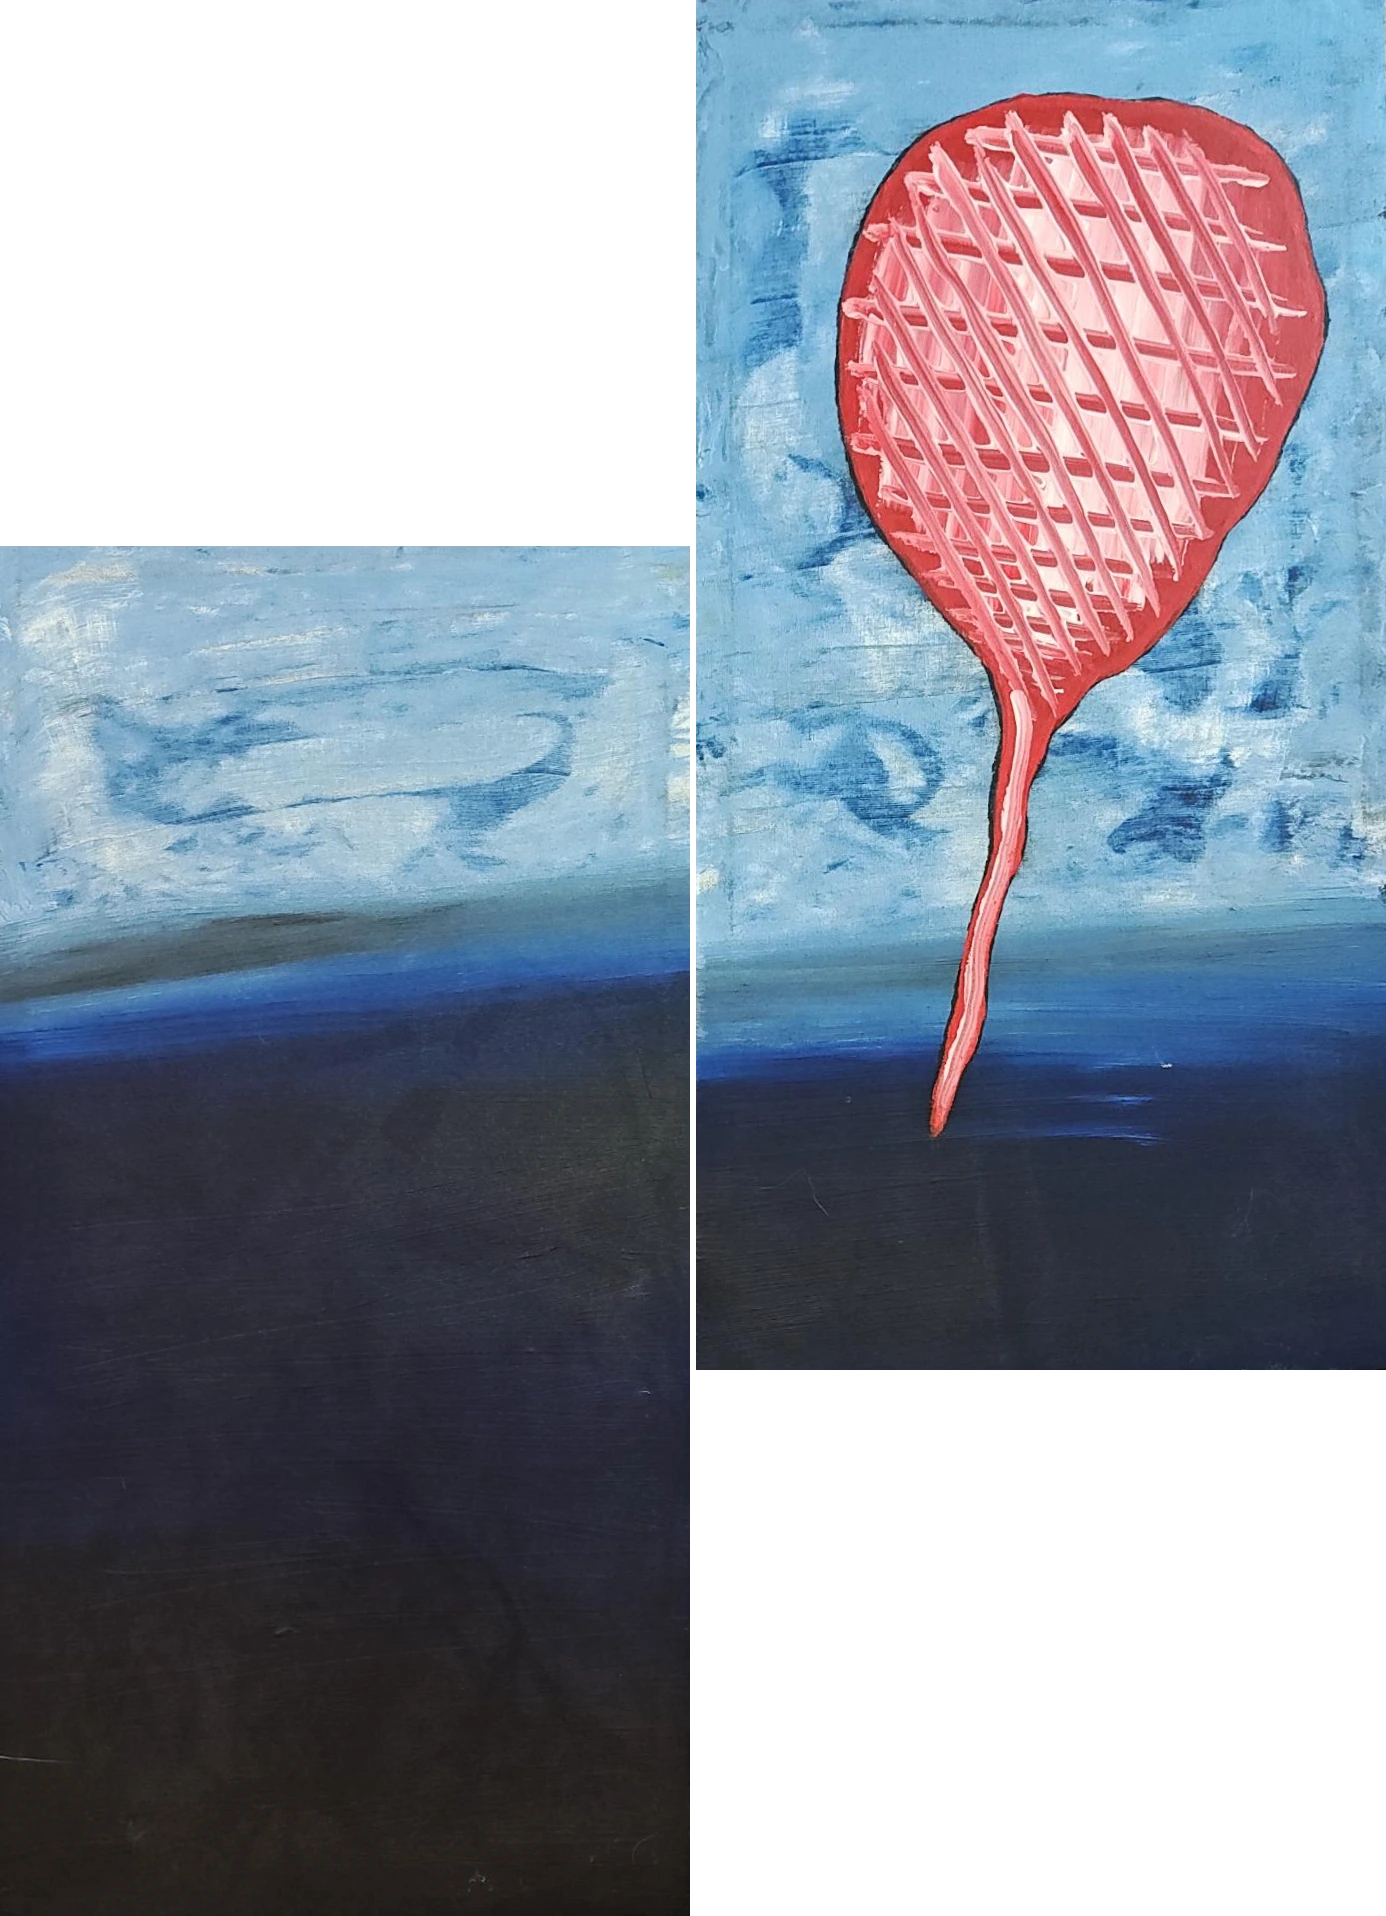
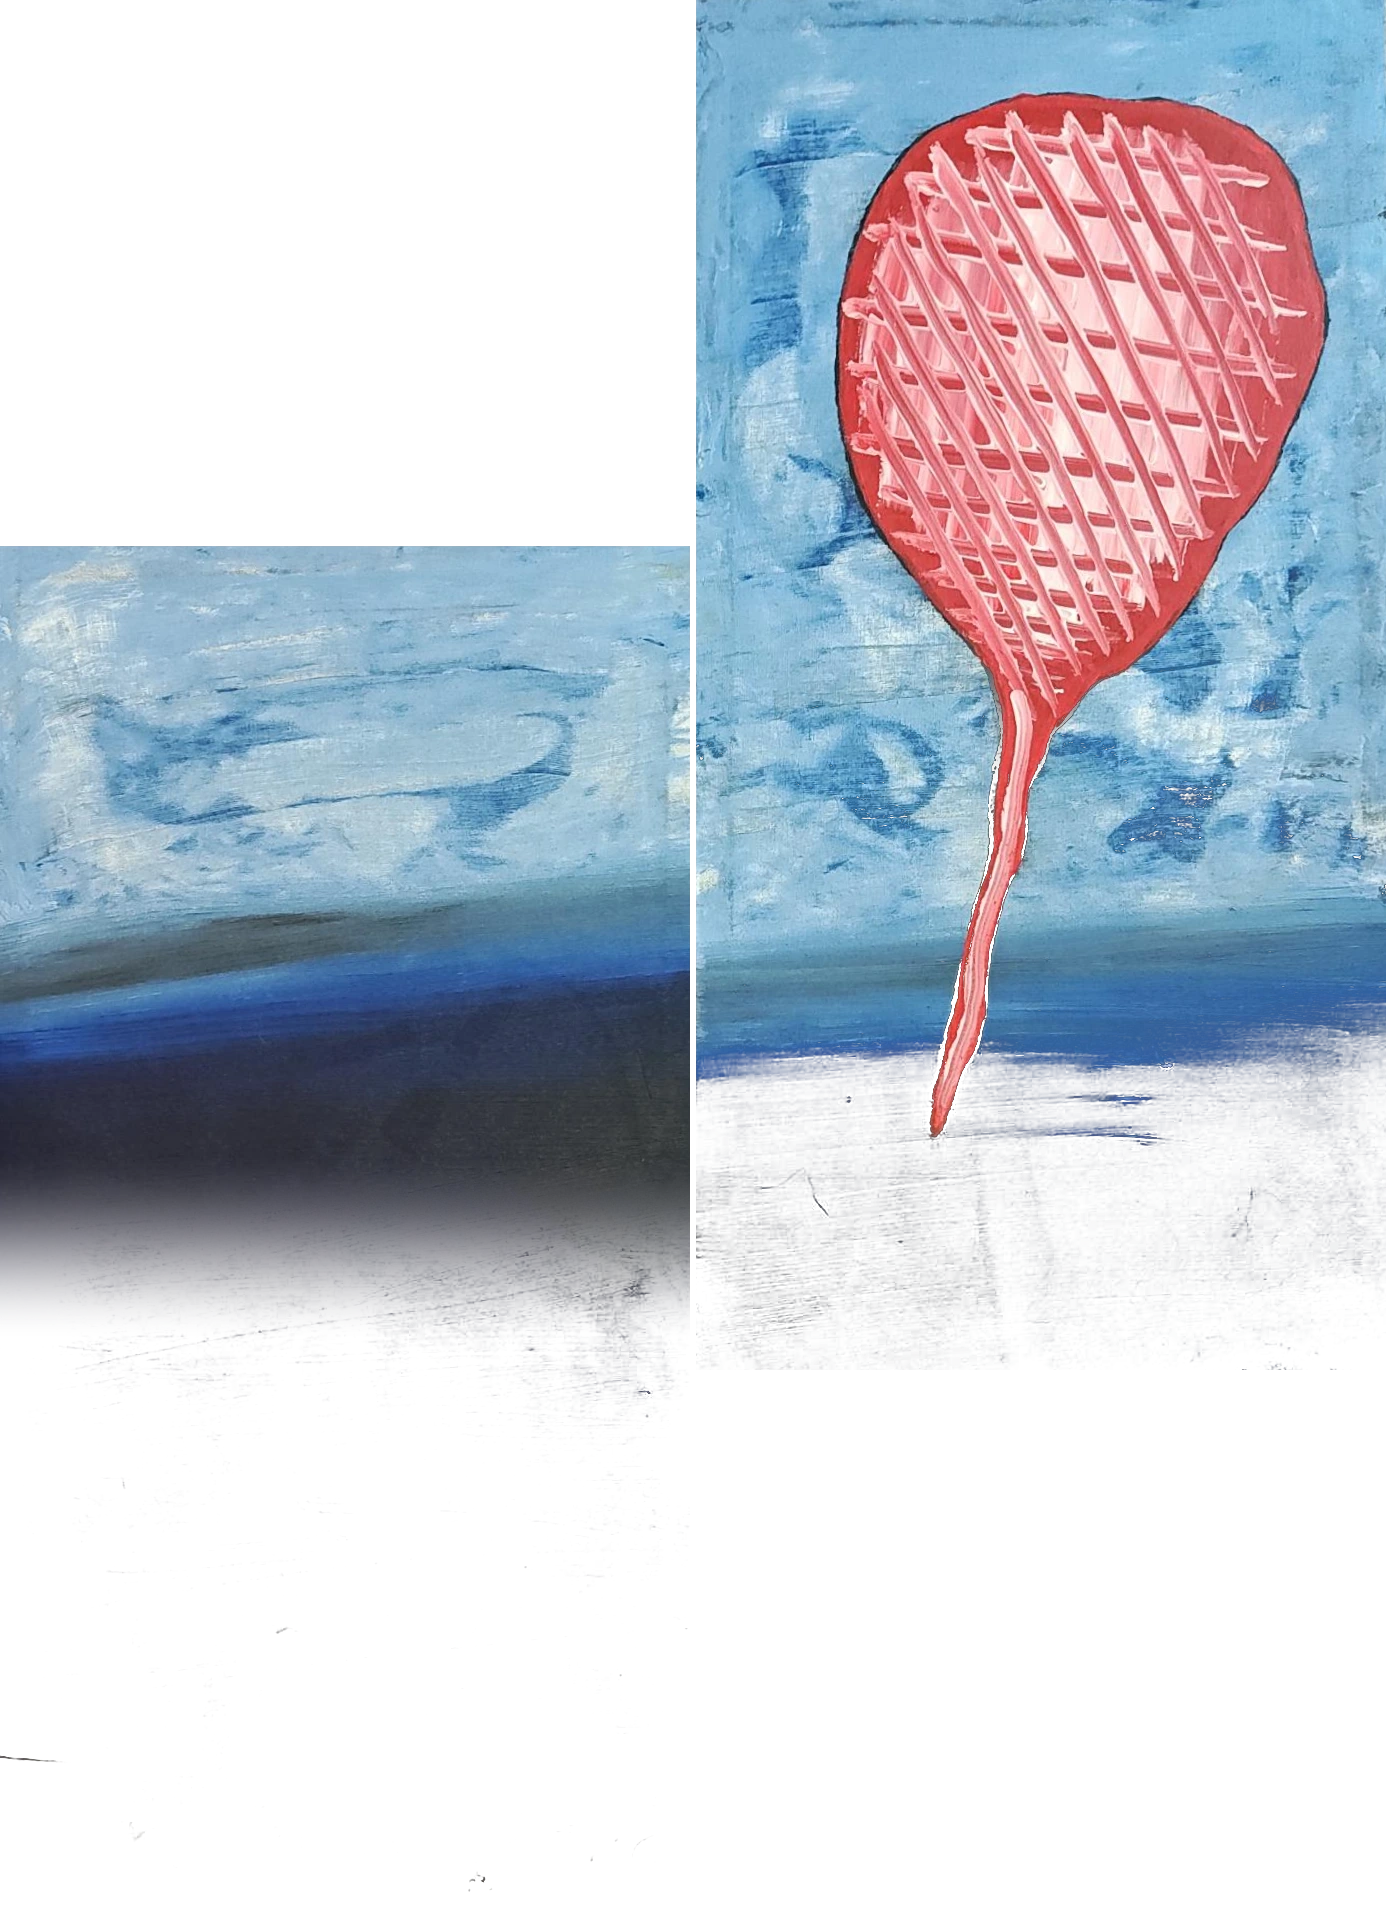
Reframe Errands as a shaped, transparent diptych
Errands carries an alpha channel — the paint is a two-panel diptych (a
taller right panel and a lower-set left panel) with transparent areas
around it. Update the uploaded file and hang it so it reads correctly:

- Canvas material is transparent for flagged works, so the gallery wall
  shows through the cut-out areas instead of rendering black.
- Frame now traces the artwork's opaque silhouette via a per-work
  outline, hugging the paint rather than the transparent image rectangle.
  The backing board is dropped for shaped works so the wall reads through.
- Standard rectangular works are unchanged.

Claude-Session: https://claude.ai/code/session_01JxDPRrPG6mmuitXx2TRgKa

diff --git a/js/art/Artworks.js b/js/art/Artworks.js
@@ -28,16 +28,33 @@ export function buildArtworks(scene, mats, manager) {
     const n = new THREE.Vector3(...slot.n);
     const yaw = Math.atan2(n.x, n.z); // rotate +Z face onto the normal
 
+    // Shaped works carry an alpha channel; `outline` is the opaque silhouette as
+    // fractions of the source image. bb is its bounding box — the plane samples
+    // only that region so the art centres in the slot, and the frame follows the
+    // outline rather than the transparent image rectangle.
+    const shaped = !!art.outline;
+    const bb = shaped ? bboxOf(art.outline) : [0, 0, 1, 1];
+
     // --- canvas ---
-    const canvasMat = new THREE.MeshStandardMaterial({ roughness: 0.82 });
+    const canvasMat = new THREE.MeshStandardMaterial({
+      roughness: 0.82,
+      transparent: !!art.transparent,   // let the wall show through cut-out areas
+      alphaTest: art.transparent ? 0.06 : 0,
+    });
     if (art.image) {
       canvasMat.map = texLoader.load(
         art.image,
         (t) => {
           t.colorSpace = THREE.SRGBColorSpace;
           t.anisotropy = 8;
-          // keep manifest width, adapt height to the photo's aspect
-          const aspect = t.image.width / t.image.height;
+          if (shaped) {
+            // crop the sampled region to the opaque bounding box
+            t.offset.set(bb[0], 1 - bb[3]);
+            t.repeat.set(bb[2] - bb[0], bb[3] - bb[1]);
+            t.needsUpdate = true;
+          }
+          // keep manifest width, adapt height to the sampled region's aspect
+          const aspect = (t.image.width * (bb[2] - bb[0])) / (t.image.height * (bb[3] - bb[1]));
           canvasMesh.scale.y = (w / aspect) / h;
         },
         undefined,
@@ -56,17 +73,22 @@ export function buildArtworks(scene, mats, manager) {
     group.add(canvasMesh);
     interactables.push(canvasMesh);
 
-    // --- frame: four mitred-ish bars + backing board ---
+    // --- frame ---
     const bar = 0.075, depth = 0.07;
-    const fw = w + bar * 2, fh = h + bar * 2;
-    addBar(frameGeos, fw, bar, depth, pos, n, yaw, 0, h / 2 + bar / 2);
-    addBar(frameGeos, fw, bar, depth, pos, n, yaw, 0, -(h / 2 + bar / 2));
-    addBar(frameGeos, bar, h, depth, pos, n, yaw, w / 2 + bar / 2, 0);
-    addBar(frameGeos, bar, h, depth, pos, n, yaw, -(w / 2 + bar / 2), 0);
-    // backing board just behind the canvas
-    const back = new THREE.BoxGeometry(fw, fh, 0.02);
-    orient(back, pos, n, yaw, 0, 0, 0.01);
-    frameGeos.push(back);
+    if (shaped) {
+      // trace the opaque silhouette; no backing board so the wall reads through
+      addOutlineFrame(frameGeos, art.outline, bb, w, h, bar, depth, pos, n, yaw);
+    } else {
+      // four mitred-ish bars + backing board
+      const fw = w + bar * 2, fh = h + bar * 2;
+      addBar(frameGeos, fw, bar, depth, pos, n, yaw, 0, h / 2 + bar / 2);
+      addBar(frameGeos, fw, bar, depth, pos, n, yaw, 0, -(h / 2 + bar / 2));
+      addBar(frameGeos, bar, h, depth, pos, n, yaw, w / 2 + bar / 2, 0);
+      addBar(frameGeos, bar, h, depth, pos, n, yaw, -(w / 2 + bar / 2), 0);
+      const back = new THREE.BoxGeometry(fw, fh, 0.02);
+      orient(back, pos, n, yaw, 0, 0, 0.01);
+      frameGeos.push(back);
+    }
 
     // --- brass placard beside the frame ---
     const placard = new THREE.BoxGeometry(0.16, 0.1, 0.006);
@@ -90,6 +112,36 @@ function addBar(list, bw, bh, depth, pos, n, yaw, ox, oy) {
   const g = new THREE.BoxGeometry(bw, bh, depth);
   orient(g, pos, n, yaw, ox, oy, depth / 2);
   list.push(g);
+}
+
+// bounding box [x0,y0,x1,y1] of a list of [x,y] outline points.
+function bboxOf(outline) {
+  let x0 = 1, y0 = 1, x1 = 0, y1 = 0;
+  for (const [x, y] of outline) {
+    x0 = Math.min(x0, x); y0 = Math.min(y0, y);
+    x1 = Math.max(x1, x); y1 = Math.max(y1, y);
+  }
+  return [x0, y0, x1, y1];
+}
+
+// Trace a rectilinear frame along the artwork's opaque silhouette. Outline
+// points are image fractions (x east, y from top); bb is their bounding box,
+// which the canvas plane (w × h) is sized to. Each edge becomes a bar centred
+// on the outline; the +bar overlap fills the corners.
+function addOutlineFrame(list, outline, bb, w, h, bar, depth, pos, n, yaw) {
+  const [bx0, by0, bx1, by1] = bb;
+  const toLocal = ([fx, fy]) => [
+    ((fx - bx0) / (bx1 - bx0) - 0.5) * w,
+    (0.5 - (fy - by0) / (by1 - by0)) * h,
+  ];
+  const pts = outline.map(toLocal);
+  for (let i = 0; i < pts.length; i++) {
+    const a = pts[i], b = pts[(i + 1) % pts.length];
+    const cx = (a[0] + b[0]) / 2, cy = (a[1] + b[1]) / 2;
+    const dx = Math.abs(b[0] - a[0]), dy = Math.abs(b[1] - a[1]);
+    if (dx < 1e-4) addBar(list, bar, dy + bar, depth, pos, n, yaw, cx, cy);       // vertical edge
+    else           addBar(list, dx + bar, bar, depth, pos, n, yaw, cx, cy);       // horizontal edge
+  }
 }
 
 // place geometry in the slot's local frame: x = along wall, y = up, z = out

diff --git a/data/artworks.js b/data/artworks.js
@@ -152,7 +152,17 @@ export const ARTWORKS = [
     year: '', medium: '', price: 'Inquire',
     buyUrl: 'https://minicuration.com/',
     image: 'assets/art/errands.webp',
-    slot: 'M-E1', size: [1.5, 2.07],
+    slot: 'M-E1', size: [1.8, 1.69],
+    // Errands is a shaped, two-panel diptych: the source image is transparent
+    // around the paint. transparent lets the wall show through those areas;
+    // outline is the opaque silhouette as fractions of the source image (x east,
+    // y from top) — a taller right panel and a lower-set left panel meeting at
+    // the seam. The frame traces this outline instead of the image rectangle.
+    transparent: true,
+    outline: [
+      [0.502, 0], [1, 0], [1, 0.680], [0, 0.680],
+      [0, 0.285], [0.502, 0.285],
+    ],
     description: DESC,
   },
   {